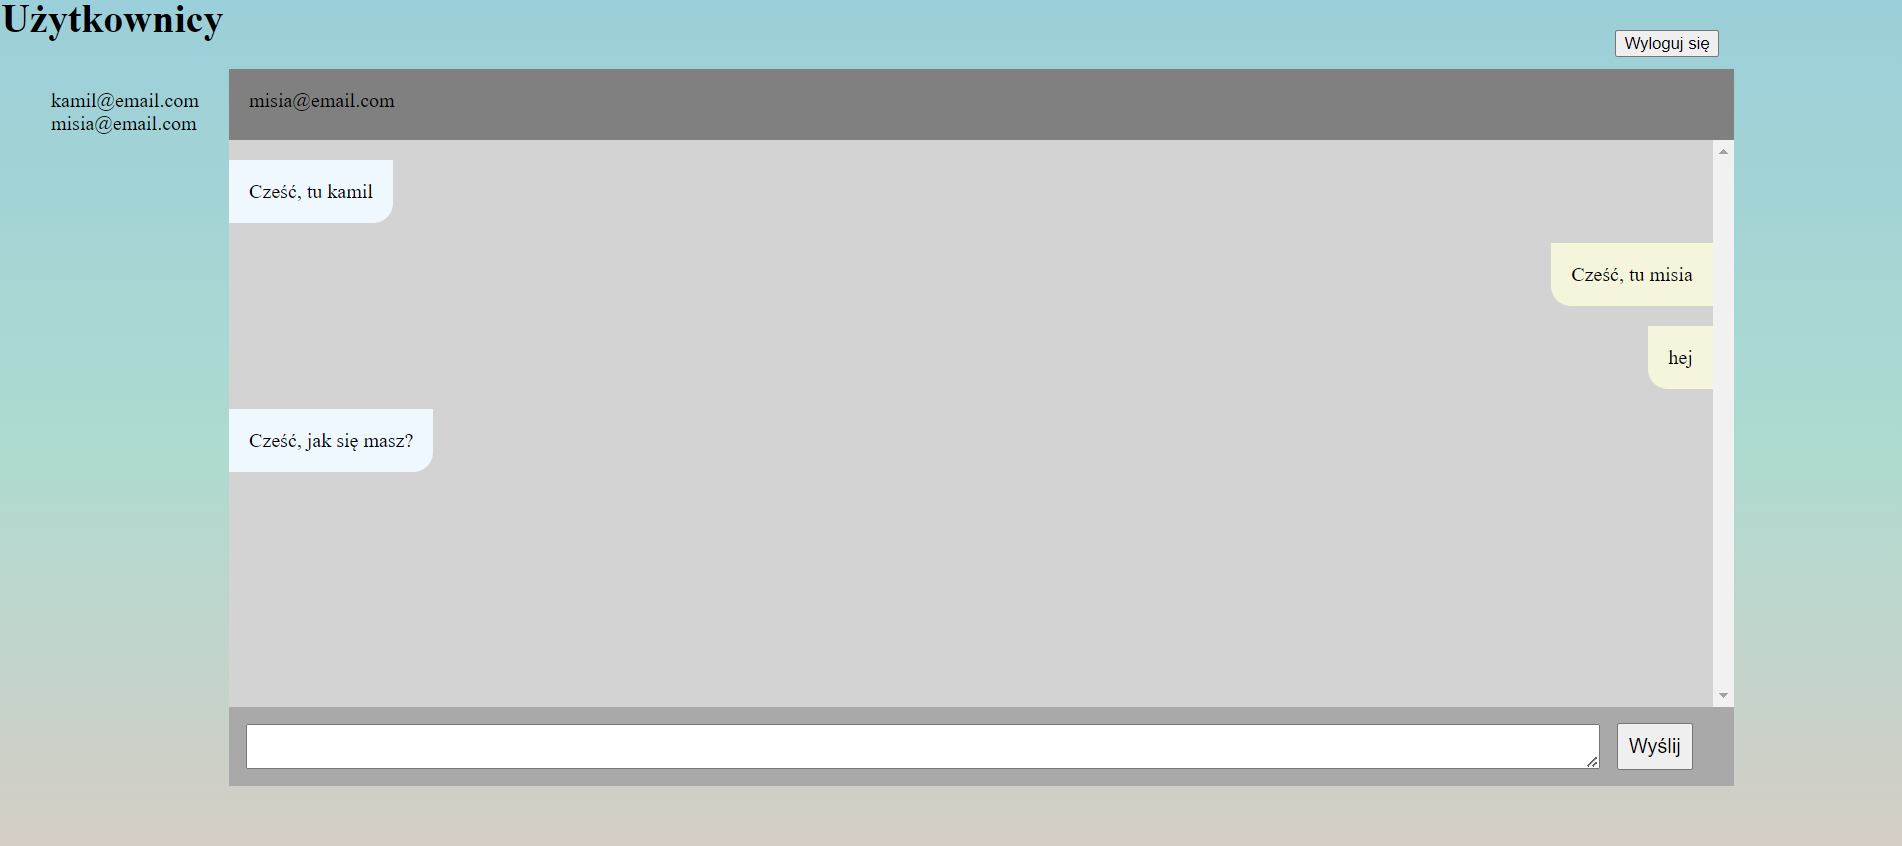
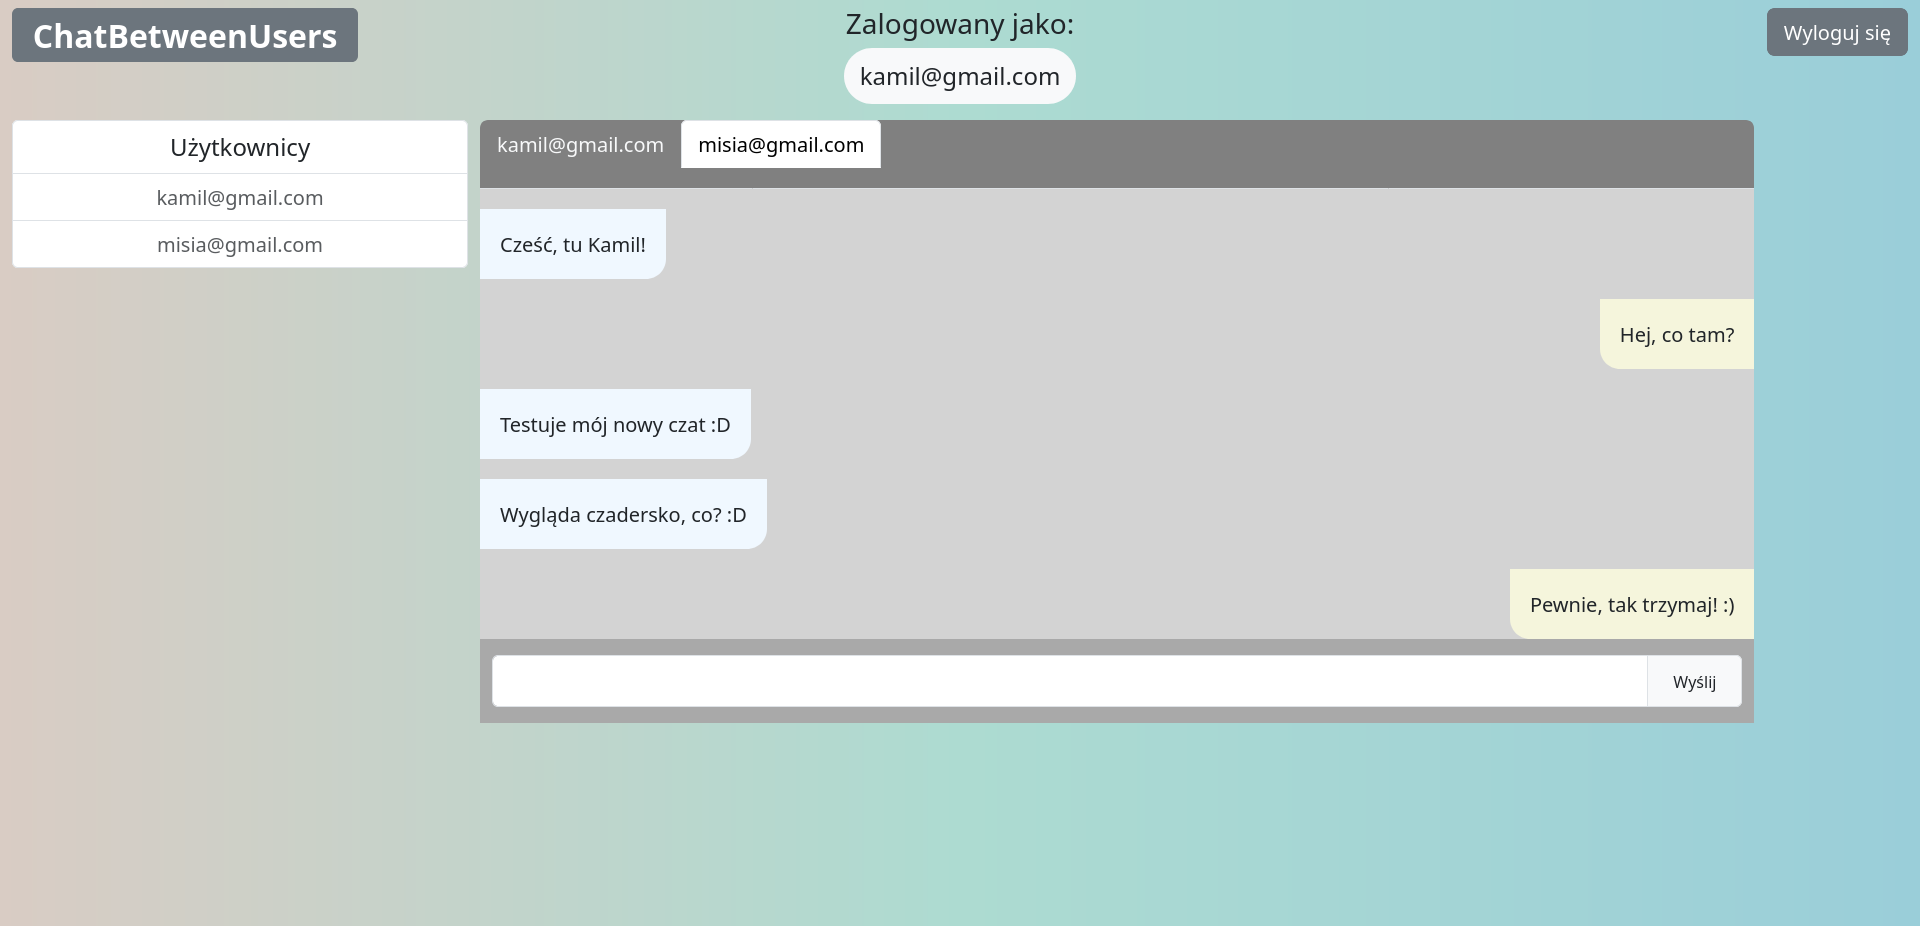
fix layout and add new images

diff --git a/Views/chat.php b/Views/chat.php
@@ -6,7 +6,7 @@
         <link href="https://cdn.jsdelivr.net/npm/bootstrap@5.3.6/dist/css/bootstrap.min.css" rel="stylesheet" integrity="sha384-4Q6Gf2aSP4eDXB8Miphtr37CMZZQ5oXLH2yaXMJ2w8e2ZtHTl7GptT4jmndRuHDT" crossorigin="anonymous">
         <style>
             body {
-                background: linear-gradient(to bottom, #9aced9, #addbd1, #d9ccc4);
+                background: linear-gradient(0.75turn, #9aced9, #addbd1, #d9ccc4);
             }
             #header-chat {
                 min-height: 10%;
@@ -18,6 +18,7 @@
                 width: 90%;
                 background: lightgray;
                 overflow-y: scroll;
+                min-height: 30%;
             }
             .message_sender {
                 padding: 1em;
@@ -69,18 +70,28 @@
             return;
         }
     ?>
-        <div class="container text-center">
+        <div class="container-fluid text-center">
             <div class="row mb-3">
                 <div class="col text-start d-none d-md-block">
-                    <h1>ChatBetweenUsers</h1>
+                    <span class="badge my-2 fs-2 text-bg-secondary">ChatBetweenUsers</span>
                 </div>
                 <div class="col text-center">
-                    <h5>Zalogowany jako:</h5>
-                    <h7 id="current-user-name" class="bg-light p-2 rounded-pill"><?php echo $_SESSION['current_user_name']; ?></h7>
+                    <div class="container">
+                        <div class="row">
+                            <div class="col">
+                                <div class="badge fs-3 text-reset fw-normal">Zalogowany jako:</div>
+                            </div>
+                        </div>
+                        <div class="row">
+                            <div class="col">
+                                <div id="current-user-name" class="badge text-reset fw-normal bg-light fs-4 p-3 rounded-pill"><?php echo $_SESSION['current_user_name']; ?></div>
+                            </div>
+                        </div>
+                    </div>
                 </div>
                 <div class="col text-end">
                     <input type="hidden" id="current-user-id" value="<?php echo $_SESSION['current_user']; ?>"/>
-                    <form method='POST' class="my-2"><input type='submit' value="Wyloguj się" name='logout' id='logout-id' class="btn btn-secondary"/></form>
+                    <form method='POST' class="my-2"><input type='submit' value="Wyloguj się" name='logout' id='logout-id' class="btn btn-lg btn-secondary"/></form>
                 </div>
             </div>
             <div class="row h-75">
@@ -89,30 +100,30 @@
                         require_once 'Classes/User.php';
                         $users = new User();
                         echo '<div class="list-group">';
-                        echo '<h6 class="list-group-item dropdown-header">Użytkownicy</h6>';
+                        echo '<div class="list-group-item dropdown-header fs-4">Użytkownicy</div>';
                         foreach ($users->getAllUsers() as $user){
-                            echo '<a class="list-group-item list-group-item-action user text-break">' . $user['email'] . '<input type="hidden" value="' . $user['id'] . '"/></a>';
+                            echo '<a class="list-group-item list-group-item-action user text-break fs-5">' . $user['email'] . '<input type="hidden" value="' . $user['id'] . '"/></a>';
                         }
                         echo '</div>';
                     ?>
                 </div>
                 <div class="col-9">
-                    <div class="row justify-content-center" id="header-chat">
+                    <div class="row justify-content-center rounded-top-3" id="header-chat">
                         <ul class="nav nav-tabs" id="chatRoomTabs">
                             <li class="nav-item">
-                                <a class="nav-link active" aria-current="page" href="#" id="name">Nazwa odbiorcy</a>
+                                <a class="nav-link active fs-5" aria-current="page" href="#" id="name">Nazwa odbiorcy</a>
                             </li>
                         </ul>
                     </div>
                     <div class="row" id="chat-body">
                         <div class="col">
                             <div class="row">
-                                <div class="col-4 message_sender">Wiadomość Nadawcy</div>
+                                <div class="col-4 message_sender fs-5">Wiadomość Nadawcy</div>
                                 <div class="col-8"></div>
                             </div>
                             <div class="row">
                                 <div class="col-8"></div>
-                                <div class="col-4 message_recipient">Wiadomość Odbiorcy</div>
+                                <div class="col-4 message_recipient fs-5">Wiadomość Odbiorcy</div>
                             </div>
                         </div>
                     </div>
@@ -146,7 +157,7 @@
                   const result = await response.json();
                   console.log("Success:", result);
                   let messages_content = '<div class="row">';
-                  messages_content += '<div class="col-4 message_sender">' + message + '</div>';
+                  messages_content += '<div class="col-4 message_sender fs-5">' + message + '</div>';
                   messages_content += '<div class="col-8"></div>';
                   messages_content += '</div>';
                   document.getElementById('chat-body').innerHTML += messages_content;
@@ -173,7 +184,7 @@
                     const liNavItemUser = document.createElement("li");
                     liNavItemUser.className = 'nav-item';
                     const aNavLink = document.createElement("a");
-                    aNavLink.className = 'nav-link text-light';
+                    aNavLink.className = 'nav-link text-light fs-5';
                     aNavLink.setAttribute('aria-current', 'page');
                     aNavLink.setAttribute('href', '#' + recipient);
                     aNavLink.innerText = e.target.innerText;
@@ -203,11 +214,11 @@
                   result.forEach((item)=> {
                     messages_content += '<div class="row">';
                     if (item.sender_id == sender) {
-                        messages_content += '<div class="col-4 message_sender">' + item.message + '</div>';
+                        messages_content += '<div class="col-4 message_sender fs-5">' + item.message + '</div>';
                         messages_content += '<div class="col-8"></div>';
                     } else {
                         messages_content += '<div class="col-8"></div>';
-                        messages_content += '<div class="col-4 message_recipient">' + item.message + '</div>';
+                        messages_content += '<div class="col-4 message_recipient fs-5">' + item.message + '</div>';
                     }
                     messages_content += '</div>';
                   });
@@ -215,9 +226,9 @@
                   document.getElementById('chat-body').innerHTML = messages_content;
                   const tabs = document.querySelectorAll('.nav-link');
                   for(let tab of tabs) {
-                    var uIdCl = tab.closest('li').querySelector('.userIdClass');  
-                    if (uIdCl.value == recipient) { tab.className = 'nav-link active'; }
-                    else { tab.className = 'nav-link text-light'; }
+                    var uIdCl = tab.closest('li').querySelector('.userIdClass');
+                    if (uIdCl.value == recipient) { tab.className = 'nav-link active fs-5'; }
+                    else { tab.className = 'nav-link text-light fs-5'; }
                   }
                 } catch (error) {
                   console.error("Error:", error);

diff --git a/Views/register.php b/Views/register.php
@@ -6,7 +6,7 @@
         <link href="https://cdn.jsdelivr.net/npm/bootstrap@5.3.6/dist/css/bootstrap.min.css" rel="stylesheet" integrity="sha384-4Q6Gf2aSP4eDXB8Miphtr37CMZZQ5oXLH2yaXMJ2w8e2ZtHTl7GptT4jmndRuHDT" crossorigin="anonymous">
         <style>
             body {
-                background: linear-gradient(to bottom, #9aced9, #addbd1, #d9ccc4);
+                background: linear-gradient(0.75turn, #9aced9, #addbd1, #d9ccc4);
             }
             fieldset, #email-id, #pass-id {
                 border-radius: 10px;
@@ -40,21 +40,27 @@
                 $register->register($formData);
             }
         ?>
-        <form action="/register" method="post">
-            <fieldset class="p-2">
-                <legend>
-                    <svg xmlns="http://www.w3.org/2000/svg" width="32" height="32" fill="currentColor" class="bi bi-person-plus-fill" viewBox="0 0 16 16">
-                        <path d="M1 14s-1 0-1-1 1-4 6-4 6 3 6 4-1 1-1 1zm5-6a3 3 0 1 0 0-6 3 3 0 0 0 0 6"/>
-                        <path fill-rule="evenodd" d="M13.5 5a.5.5 0 0 1 .5.5V7h1.5a.5.5 0 0 1 0 1H14v1.5a.5.5 0 0 1-1 0V8h-1.5a.5.5 0 0 1 0-1H13V5.5a.5.5 0 0 1 .5-.5"/>
-                    </svg>
-                    Rejstracja:
-                </legend>
-                <label for="email-id" class="form-label">Email</label>
-                <input type="email" id="email-id" name="email" class="form-control" required/>
-                <label for="pass-id" class="form-label">Hasło</label>
-                <input type="password" id="pass-id" name="password" minlength="8" class="form-control" required/>
-                <input type="submit" name="send" class="form-control" value="Wyślij">
-            </fieldset>
-        </form>
+        <div class="container-fluid">
+            <div class="row">
+                <div class="col">
+                    <form action="/register" method="post">
+                        <fieldset class="p-2">
+                            <legend class="fs-2">
+                                <svg xmlns="http://www.w3.org/2000/svg" width="48" height="48" fill="currentColor" class="bi bi-person-plus-fill" viewBox="0 0 16 16">
+                                    <path d="M1 14s-1 0-1-1 1-4 6-4 6 3 6 4-1 1-1 1zm5-6a3 3 0 1 0 0-6 3 3 0 0 0 0 6"/>
+                                    <path fill-rule="evenodd" d="M13.5 5a.5.5 0 0 1 .5.5V7h1.5a.5.5 0 0 1 0 1H14v1.5a.5.5 0 0 1-1 0V8h-1.5a.5.5 0 0 1 0-1H13V5.5a.5.5 0 0 1 .5-.5"/>
+                                </svg>
+                                Rejstracja:
+                            </legend>
+                            <label for="email-id" class="form-label fs-3">Email</label>
+                            <input type="email" id="email-id" name="email" class="form-control form-control-lg" required/>
+                            <label for="pass-id" class="form-label fs-3">Hasło</label>
+                            <input type="password" id="pass-id" name="password" minlength="8" class="form-control form-control-lg" required/>
+                            <input type="submit" name="send" class="form-control form-control-lg" value="Wyślij">
+                        </fieldset>
+                    </form>
+                </div>
+            </div>
+        </div>
     </body>
 </html>

diff --git a/Views/login.php b/Views/login.php
@@ -6,7 +6,7 @@
         <link href="https://cdn.jsdelivr.net/npm/bootstrap@5.3.6/dist/css/bootstrap.min.css" rel="stylesheet" integrity="sha384-4Q6Gf2aSP4eDXB8Miphtr37CMZZQ5oXLH2yaXMJ2w8e2ZtHTl7GptT4jmndRuHDT" crossorigin="anonymous">
         <style>
             body {
-                background: linear-gradient(to bottom, #9aced9, #addbd1, #d9ccc4);
+                background: linear-gradient(0.75turn, #9aced9, #addbd1, #d9ccc4);
             }
             fieldset, #email-id, #pass-id {
                 border-radius: 10px;
@@ -40,20 +40,26 @@
                 $auth->login($formData);
             }
         ?>
-        <form action="/login" method="post">
-            <fieldset class="p-2">
-                <legend>
-                    <svg xmlns="http://www.w3.org/2000/svg" width="32" height="32" fill="currentColor" class="bi bi-person-fill-lock" viewBox="0 0 16 16">
-                        <path d="M11 5a3 3 0 1 1-6 0 3 3 0 0 1 6 0m-9 8c0 1 1 1 1 1h5v-1a2 2 0 0 1 .01-.2 4.49 4.49 0 0 1 1.534-3.693Q8.844 9.002 8 9c-5 0-6 3-6 4m7 0a1 1 0 0 1 1-1v-1a2 2 0 1 1 4 0v1a1 1 0 0 1 1 1v2a1 1 0 0 1-1 1h-4a1 1 0 0 1-1-1zm3-3a1 1 0 0 0-1 1v1h2v-1a1 1 0 0 0-1-1"/>
-                    </svg>
-                    Logowanie:
-                </legend>
-                <label for="email-id" class="form-label">Email</label>
-                <input type="email" id="email-id" name="email" class="form-control" required/>
-                <label for="pass-id" class="form-label">Hasło</label>
-                <input type="password" id="pass-id" name="password" minlength="8" class="form-control" required/>
-                <input type="submit" name="send" class="form-control" value="Wyślij">
-            </fieldset>
-        </form>
+        <div class="container-fluid">
+            <div class="row">
+                <div class="col">
+                    <form action="/login" method="post">
+                        <fieldset class="p-2">
+                            <legend class="fs-2">
+                                <svg xmlns="http://www.w3.org/2000/svg" width="48" height="48" fill="currentColor" class="bi bi-person-fill-lock" viewBox="0 0 16 16">
+                                    <path d="M11 5a3 3 0 1 1-6 0 3 3 0 0 1 6 0m-9 8c0 1 1 1 1 1h5v-1a2 2 0 0 1 .01-.2 4.49 4.49 0 0 1 1.534-3.693Q8.844 9.002 8 9c-5 0-6 3-6 4m7 0a1 1 0 0 1 1-1v-1a2 2 0 1 1 4 0v1a1 1 0 0 1 1 1v2a1 1 0 0 1-1 1h-4a1 1 0 0 1-1-1zm3-3a1 1 0 0 0-1 1v1h2v-1a1 1 0 0 0-1-1"/>
+                                </svg>
+                                Logowanie:
+                            </legend>
+                            <label for="email-id" class="form-label fs-3">Email</label>
+                            <input type="email" id="email-id" name="email" class="form-control form-control-lg" required/>
+                            <label for="pass-id" class="form-label fs-3">Hasło</label>
+                            <input type="password" id="pass-id" name="password" minlength="8" class="form-control form-control-lg" required/>
+                            <input type="submit" name="send" class="form-control form-control-lg" value="Wyślij">
+                        </fieldset>
+                    </form>
+                </div>
+            </div>
+        </div>
     </body>
 </html>
